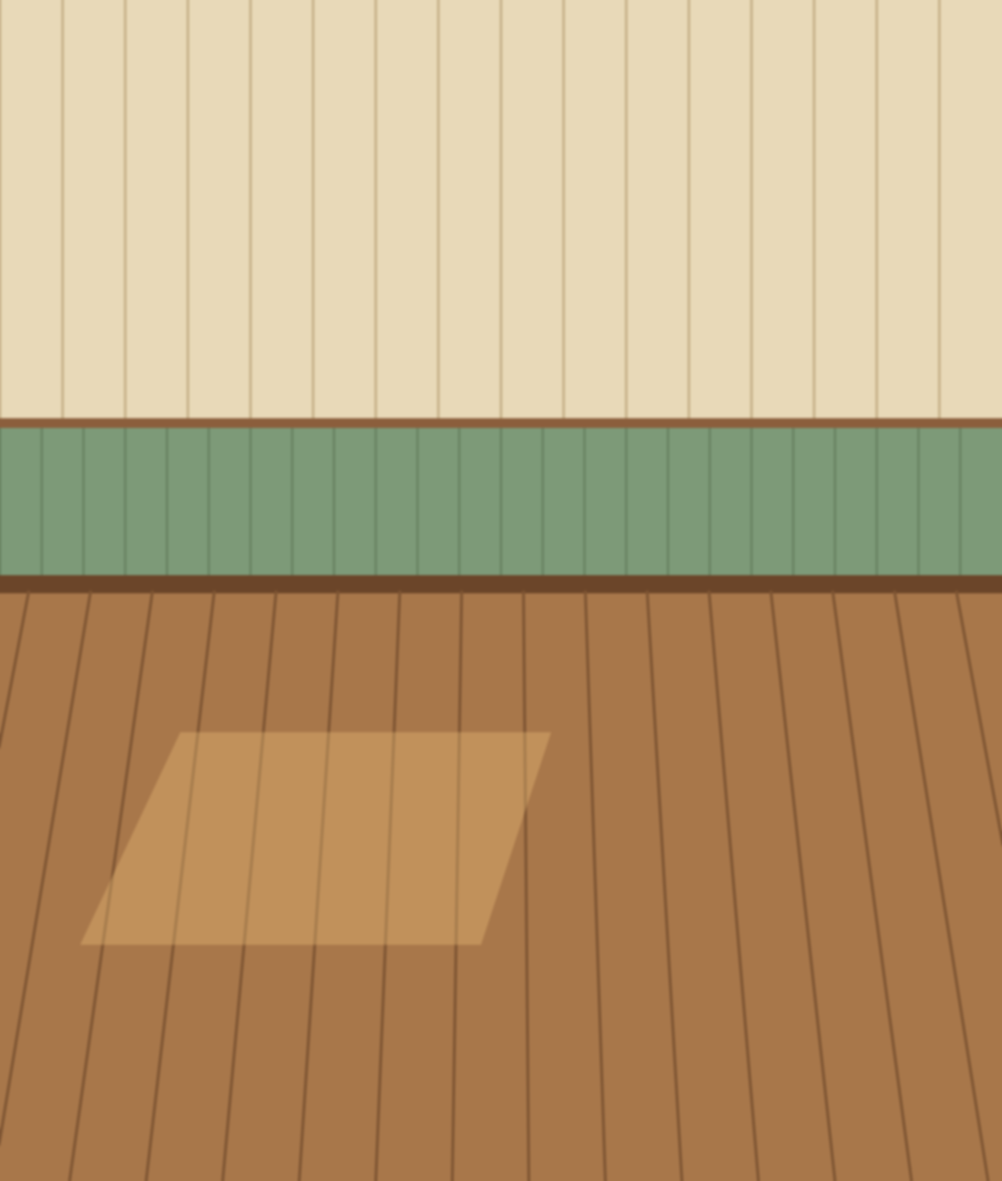
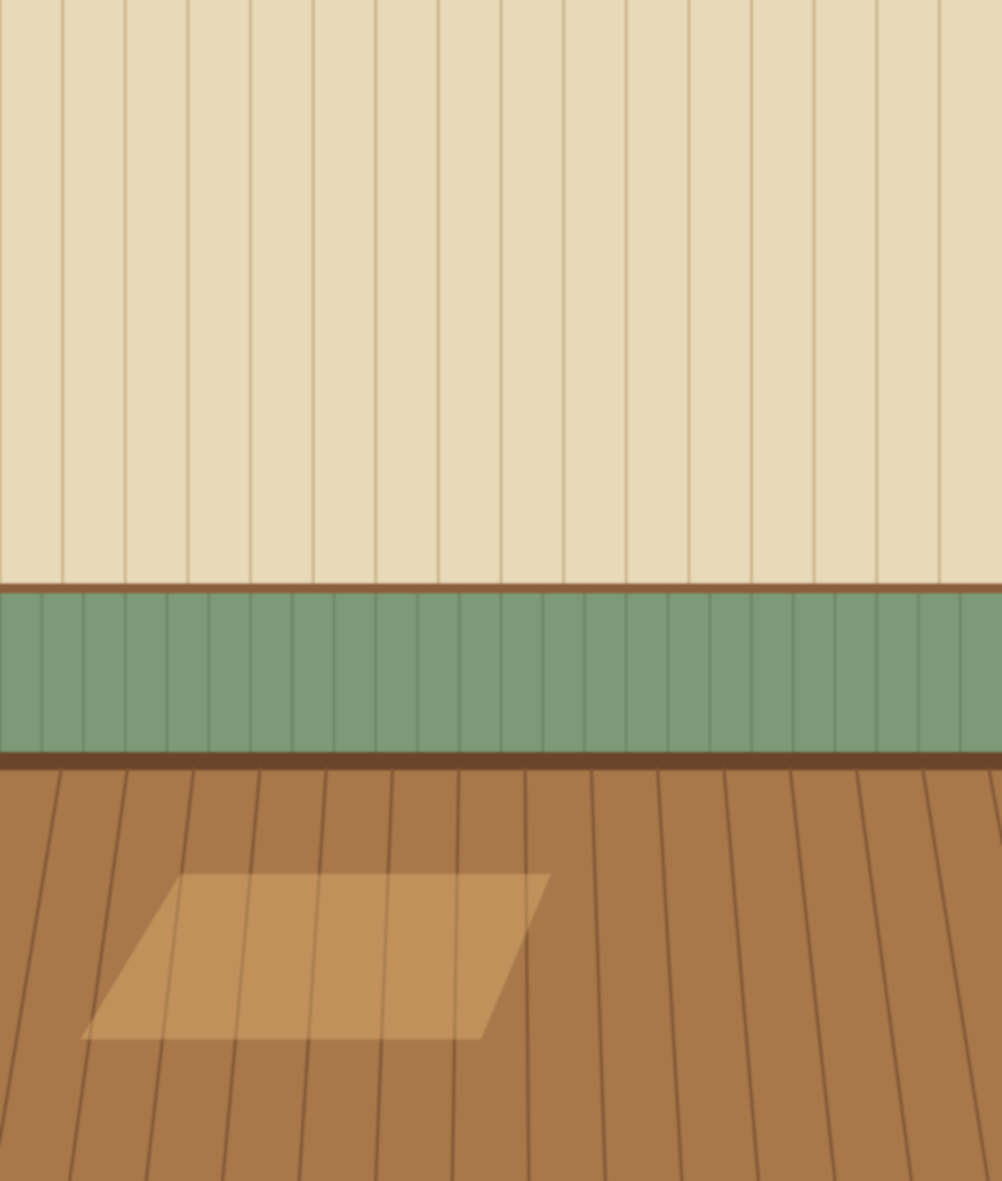
Perspective: baseboard at 65% so furniture stands against the wall with rear feet on it; back-to-front drawing, items on the workbench on top; paint room rearranged; guides, docs and spec updated

diff --git a/src/ui/BeforeAfter.ts b/src/ui/BeforeAfter.ts
@@ -5,7 +5,7 @@ import { addAsset } from '../assets';
 import { DEPTH, DESIGN_HEIGHT, DESIGN_WIDTH, PALETTE } from '../config';
 import { objectsIn, zonesIn, type Content, type RoomDef } from '../core/content';
 import { t } from '../i18n';
-import { rect } from '../layout';
+import { depthKey, rect, type Rect } from '../layout';
 import { Button } from './Button';
 import { COLORS, textStyle } from './style';
 import { drawShelf, drawZonePile, wallShelfRects } from './ZoneArt';
@@ -15,18 +15,26 @@ function drawRoom(scene: Phaser.Scene, content: Content, room: RoomDef, before: 
   const r = rect(room.layout, 'room');
   layer.add(addAsset(scene, room.image, r));
   for (const spot of wallShelfRects(content, room)) layer.add(drawShelf(scene, spot));
+  // Back to front, as on the main screen.
+  const things: { name: string; r: Rect; draw: (r: Rect) => Phaser.GameObjects.GameObject }[] = [];
   if (before) {
     for (const zone of zonesIn(content, room.id)) {
-      const z = rect(room.layout, `zone.${zone.id}`);
-      const box = scene.add.container(z.x + z.w / 2, z.y + z.h / 2).setSize(z.w, z.h);
-      drawZonePile(scene, box, content, zone, []);
-      layer.add(box);
+      things.push({
+        name: `zone.${zone.id}`,
+        r: rect(room.layout, `zone.${zone.id}`),
+        draw: (z) => {
+          const box = scene.add.container(z.x + z.w / 2, z.y + z.h / 2).setSize(z.w, z.h);
+          drawZonePile(scene, box, content, zone, []);
+          return box;
+        },
+      });
     }
   }
   for (const object of objectsIn(content, room.id)) {
     const key = before ? object.stateImages[0] : object.stateImages[object.stateImages.length - 1];
-    layer.add(addAsset(scene, key ?? '', rect(room.layout, `object.${object.id}`)));
+    things.push({ name: `object.${object.id}`, r: rect(room.layout, `object.${object.id}`), draw: (o) => addAsset(scene, key ?? '', o) });
   }
+  for (const thing of things.sort((p, q) => depthKey(p.name, p.r) - depthKey(q.name, q.r))) layer.add(thing.draw(thing.r));
   // Before: a dusty, dimmer veil over everything.
   if (before) layer.add(scene.add.rectangle(r.x, r.y, r.w, r.h, 0x5a4a3a, 0.3).setOrigin(0));
   return layer;

diff --git a/src/scenes/Workshop.ts b/src/scenes/Workshop.ts
@@ -11,7 +11,7 @@ import { checkRepair } from '../core/repair';
 import { currentTutorialStep } from '../core/tutorial';
 import { stepOf, type GameEvent, type GameState } from '../core/state';
 import { t } from '../i18n';
-import { rect, type Rect } from '../layout';
+import { depthKey, rect, type Rect } from '../layout';
 import type { Ads } from '../ads';
 import type { PlatformAdapter } from '../platform/adapter';
 import type { Store } from '../store';
@@ -85,12 +85,12 @@ export class WorkshopScene extends Phaser.Scene {
     const room = rect(this.section, 'room');
     addAsset(this, this.room.image, room);
     for (const spot of wallShelfRects(content, this.room)) drawShelf(this, spot);
-    for (const zone of zonesIn(content, this.room.id)) {
-      this.zones.set(zone.id, this.addHotspot(zone.image, rect(this.section, `zone.${zone.id}`), zone.nameKey, () => this.onZone(zone)));
-    }
-    for (const object of objectsIn(content, this.room.id)) {
-      this.objects.set(object.id, this.addHotspot(object.stateImages[0] ?? '', rect(this.section, `object.${object.id}`), object.nameKey, () => this.onObject(object)));
-    }
+    // Zones and objects are created back to front (byDepth), so nearer things cover farther ones.
+    const things = [
+      ...zonesIn(content, this.room.id).map((zone) => ({ name: `zone.${zone.id}`, r: rect(this.section, `zone.${zone.id}`), add: (r: Rect) => this.zones.set(zone.id, this.addHotspot(zone.image, r, zone.nameKey, () => this.onZone(zone))) })),
+      ...objectsIn(content, this.room.id).map((object) => ({ name: `object.${object.id}`, r: rect(this.section, `object.${object.id}`), add: (r: Rect) => this.objects.set(object.id, this.addHotspot(object.stateImages[0] ?? '', r, object.nameKey, () => this.onObject(object))) })),
+    ];
+    for (const thing of things.sort((a, b) => depthKey(a.name, a.r) - depthKey(b.name, b.r))) thing.add(thing.r);
     this.warmLight = this.add.rectangle(room.x, room.y, room.w, room.h, PALETTE.copper, 0.14).setOrigin(0).setVisible(false);
     ambientDust(this, room);
     // Badges go above every object and the warm light, so none of them is hidden by a neighbour.

diff --git a/src/layout.ts b/src/layout.ts
@@ -18,4 +18,12 @@ export function rect(section: string, name: string): Rect {
   return r;
 }
 
+// Depth order for things standing in a room: whatever reaches lower on the screen is closer to the viewer
+// and is drawn later, so a table in front of a rack covers the rack, not the other way round.
+export const byDepth = (a: Rect, b: Rect) => a.y + a.h - (b.y + b.h);
+
+// Things that stand on top of other furniture (the lamp and the box on the workbench) are drawn after it.
+export const ON_TOP = new Set(['object.lamp', 'object.fastener_box']);
+export const depthKey = (name: string, r: Rect) => (ON_TOP.has(name) ? 1e6 : 0) + r.y + r.h;
+
 export const center = (r: Rect) => ({ x: r.x + r.w / 2, y: r.y + r.h / 2 });

diff --git a/assets/ART_TODO.md b/assets/ART_TODO.md
@@ -93,14 +93,14 @@ cozy hand-painted 2D game illustration, soft painterly brushwork, warm golden af
 
 ## 1.4. Фоны комнат — `room_bg` и `room_paint_bg` — ✅ готово 13.10.2026
 
-Новые фоны подключены. Плинтус у них был на 60–61% высоты: я срезал сверху полосу потолка и немного боковых стен, чтобы он встал ровно посередине (оригиналы — в `assets/source/raw/`). Если будете перегенерировать — делайте сразу по подсказке композиции.
+Новые фоны подключены. Плинтус у них на 60–61% высоты; я подрезал снизу и с боков, чтобы он встал на 65% (оригиналы — в `assets/source/raw/`). Почему 65%, а не 50%: верстак, шкаф и столы стоят у стены, их **задние ножки** должны упираться в плинтус, а у таких вещей задние ножки оказываются примерно на 65% высоты комнаты.. Если будете перегенерировать — делайте сразу по подсказке композиции.
 
-**Что не так:** игра расставляет объекты по сетке: всё настенное (полки, окна, часы, антресоль, радио, стеллаж) стоит в **верхней половине** комнаты, всё напольное (верстак, шкаф, столы, кучи завала) — в **нижней**. Нынешние фоны нарисованы с глубокой перспективой: двускатная крыша, большие боковые стены, пол начинается ниже середины. Поэтому напольные вещи «залезают» на стены.
+**Что не так:** игра расставляет объекты по сетке: всё настенное (полки, окна, часы, антресоль, радио, стеллаж) висит на стене, а мебель стоит у стены задними ножками на плинтусе — **на 65% высоты** комнаты. Нынешние фоны нарисованы с глубокой перспективой: двускатная крыша, большие боковые стены, пол начинается ниже середины. Поэтому напольные вещи «залезают» на стены.
 
 Нужен фон как сцена театра или кукольный домик без передней стены:
-- задняя стена смотрит прямо на зрителя и занимает **ровно верхнюю половину** картинки;
-- плинтус — прямая горизонтальная линия **ровно посередине высоты**;
-- нижняя половина — пол с очень мягкой перспективой;
+- задняя стена смотрит прямо на зрителя и занимает **верхние две трети** картинки;
+- плинтус — прямая горизонтальная линия **на 65% высоты** сверху;
+- нижняя треть — пол с очень мягкой перспективой;
 - без боковых стен, потолка, балок и углов.
 
 **Как добиться в Leonardo:**
@@ -118,7 +118,7 @@ cozy hand-painted 2D game illustration, soft painterly brushwork, warm golden af
 - **Важно:** никаких предметов — окно, полка, часы, верстак и шкаф будут отдельными спрайтами поверх фона.
 
 ```
-cozy hand-painted 2D game illustration, soft painterly brushwork, warm golden afternoon light coming from the upper left, nostalgic calm mood, muted earthy palette of warm wood brown, cream, faded sage green, copper accents, dark metal and dust grey, clean readable shapes, gentle soft shadows, flat frontal view straight at the back wall of a small room, like a theatre stage or a dollhouse with the front wall removed, the back wall faces the viewer squarely and fills exactly the upper half of the picture, a straight horizontal wooden baseboard runs across the whole width exactly at the middle height of the picture, the lower half of the picture is a wooden plank floor seen from slightly above with very gentle perspective, the planks run towards the wall, no side walls, no ceiling, no roof beams, no corners, symmetrical composition, the interior of an old family workshop: the back wall is made of vertical cream-painted wooden planks with a faded sage green wainscot panel along its lower part above the baseboard, the floor is worn warm brown wooden planks with a few scuffs, warm golden sunlight patches on the floor and the wall, the room is completely empty with no furniture and no objects, plenty of empty wall space, vertical composition, full background
+cozy hand-painted 2D game illustration, soft painterly brushwork, warm golden afternoon light coming from the upper left, nostalgic calm mood, muted earthy palette of warm wood brown, cream, faded sage green, copper accents, dark metal and dust grey, clean readable shapes, gentle soft shadows, flat frontal view straight at the back wall of a small room, like a theatre stage or a dollhouse with the front wall removed, the back wall faces the viewer squarely and fills the upper two thirds of the picture, a straight horizontal wooden baseboard runs across the whole width at about two thirds of the height (65% from the top), the lower third of the picture is a wooden plank floor seen from slightly above with very gentle perspective, the planks run towards the wall, no side walls, no ceiling, no roof beams, no corners, symmetrical composition, the interior of an old family workshop: the back wall is made of vertical cream-painted wooden planks with a faded sage green wainscot panel along its lower part above the baseboard, the floor is worn warm brown wooden planks with a few scuffs, warm golden sunlight patches on the floor and the wall, the room is completely empty with no furniture and no objects, plenty of empty wall space, vertical composition, full background
 ```
 
 ### `room_paint_bg` — Фон малярной (пустая комната)
@@ -130,7 +130,7 @@ cozy hand-painted 2D game illustration, soft painterly brushwork, warm golden af
 - **Важно:** тот же ракурс и линия пола, что у мастерской: комнаты должны выглядеть соседними в одном доме. Стеллаж, окно, мольберт, стремянку и столы не рисовать.
 
 ```
-cozy hand-painted 2D game illustration, soft painterly brushwork, warm golden afternoon light coming from the upper left, nostalgic calm mood, muted earthy palette of warm wood brown, cream, faded sage green, copper accents, dark metal and dust grey, clean readable shapes, gentle soft shadows, flat frontal view straight at the back wall of a small room, like a theatre stage or a dollhouse with the front wall removed, the back wall faces the viewer squarely and fills exactly the upper half of the picture, a straight horizontal wooden baseboard runs across the whole width exactly at the middle height of the picture, the lower half of the picture is a wooden plank floor seen from slightly above with very gentle perspective, the planks run towards the wall, no side walls, no ceiling, no roof beams, no corners, symmetrical composition, the interior of an old family paint shop: the back wall is whitewashed plaster with old faint splashes of honey, sage green and warm red paint and a sage green wooden wainscot panel along its lower part above the baseboard, the floor is worn light wooden planks with old dried paint drips, warm golden sunlight patches on the floor and the wall, the room is completely empty with no furniture and no objects, plenty of empty wall space, vertical composition, full background
+cozy hand-painted 2D game illustration, soft painterly brushwork, warm golden afternoon light coming from the upper left, nostalgic calm mood, muted earthy palette of warm wood brown, cream, faded sage green, copper accents, dark metal and dust grey, clean readable shapes, gentle soft shadows, flat frontal view straight at the back wall of a small room, like a theatre stage or a dollhouse with the front wall removed, the back wall faces the viewer squarely and fills the upper two thirds of the picture, a straight horizontal wooden baseboard runs across the whole width at about two thirds of the height (65% from the top), the lower third of the picture is a wooden plank floor seen from slightly above with very gentle perspective, the planks run towards the wall, no side walls, no ceiling, no roof beams, no corners, symmetrical composition, the interior of an old family paint shop: the back wall is whitewashed plaster with old faint splashes of honey, sage green and warm red paint and a sage green wooden wainscot panel along its lower part above the baseboard, the floor is worn light wooden planks with old dried paint drips, warm golden sunlight patches on the floor and the wall, the room is completely empty with no furniture and no objects, plenty of empty wall space, vertical composition, full background
 ```
 
 ## 1.5. Окно — `obj_window_0`, `_1`, `_2` — ✅ готово 13.10.2026 (новая серия без мазков)
@@ -241,14 +241,10 @@ Clearly abandoned for many years: the tabletop boards are cracked, warped and st
 Same cozy hand-painted 2D style, original design, lighting, white background and framing. No redesign, no new or missing parts, no text or numbers.
 ```
 
-## 1.7. Малярная: поправить после партии 13.10.2026
+## 1.7. Стеллаж с красками: убрать стену
 
 **Что не так:**
 - **Стеллаж с красками** (`obj_paint_rack_0…3`) нарисован на стене с плинтусом и полом, а не на белом фоне — вырезать его автоматически чисто нельзя, поэтому в игре пока заглушка. Нужно убрать фон правкой каждой из четырёх картинок (текст один и тот же).
-- **Шкафчик для растворителей `_3`** — деревянный бежевый, а `_0`–`_2` — зелёный металлический: при последнем ремонте шкафчик «превратится» в другой.
-- **Шлифовальный верстак `_3`** — другой формы, чем `_0`–`_2`.
-
-Для двух последних проще всего сделать `_3` **правкой картинки `_2`** («почти готово» → «восстановлено»), тогда форма совпадёт.
 
 ### `obj_paint_rack_0` — Стеллаж с красками, шаг 0 из 3 — убрать стену
 
@@ -284,32 +280,6 @@ Edit this exact image: keep the paint rack with its cans exactly as it is — sa
 
 ```
 Edit this exact image: keep the paint rack with its cans exactly as it is — same shape, colors, details and camera angle. Remove the wall, the baseboard and the floor around and under it, and the shadow on the wall: replace everything around the paint rack with its cans with a plain flat pure white background. No redesign, no new or missing parts, no text or numbers.
-```
-
-### `obj_solvent_cabinet_3` — Шкафчик для растворителей, шаг 3 из 3 (восстановлено) — сделать из _2
-
-- **Как делать:** правка картинки `obj_solvent_cabinet_2`: откройте её карточку и вставьте текст.
-- **Отрицательный промпт:** не нужен — это правка готовой картинки
-
-```
-Edit this exact metal cabinet, preserving its silhouette, proportions, doors, handles, body and camera angle.
-
-Fully restored and cared for: the whole body is freshly and evenly painted sage green with no bare spots or scuffs, the doors are closed neatly, the handles are polished brass, and three plain glass bottles without labels stand in a row on top.
-
-Same cozy hand-painted 2D style, original design, lighting, white background and framing. No redesign, no text or numbers.
-```
-
-### `obj_sanding_bench_3` — Шлифовальный верстак, шаг 3 из 3 (восстановлено) — сделать из _2
-
-- **Как делать:** правка картинки `obj_sanding_bench_2`: откройте её карточку и вставьте текст.
-- **Отрицательный промпт:** не нужен — это правка готовой картинки
-
-```
-Edit this exact sanding bench, preserving its silhouette, proportions, top, legs, sanding block and camera angle.
-
-Fully restored and cared for: clean, warm, freshly finished wood on the top and the legs, no dust, no cracks; sandpaper sheets neatly stacked, and a freshly sanded wooden chair leg with a soft brush resting on the top.
-
-Same cozy hand-painted 2D style, original design, lighting, white background and framing. No redesign, no text or numbers.
 ```
 
 ---

diff --git a/assets/ARTIST_BRIEF.md b/assets/ARTIST_BRIEF.md
@@ -27,7 +27,7 @@
 | Пыль | `#C9C2B5` | заброшенные состояния |
 
 - **Заброшено** — пыльные малонасыщенные серо-коричневые тона, паутина, сломанные детали. **Восстановлено** — тёплые насыщенные цвета, чистые поверхности, «обжитость».
-- **Ракурс — «кукольный домик в разрезе», как сцена театра:** задняя стена комнаты смотрит прямо на зрителя и занимает верхнюю половину кадра, плинтус проходит ровно посередине высоты, ниже — пол в мягкой перспективе (камера чуть сверху, около 30°). Боковых стен, потолка и балок нет. Все объекты рисуются в этом же ракурсе, чтобы ставиться на фон без перекосов.
+- **Ракурс — «кукольный домик в разрезе», как сцена театра:** задняя стена комнаты смотрит прямо на зрителя и занимает верхние две трети кадра, плинтус проходит на 65% высоты, ниже — пол в мягкой перспективе (камера чуть сверху, около 30°). Боковых стен, потолка и балок нет. Все объекты рисуются в этом же ракурсе, чтобы ставиться на фон без перекосов.
 - **Читаемость:** объекты на экране телефона имеют ширину примерно 2–4 см. Силуэт и состояние объекта должны считываться с первого взгляда, мелкие детали — вторичны.
 - **Референсы настроения** прилагаются отдельно (временные картинки, сделанные нейросетью: карточки находок, логотип). Это ориентир по настроению и палитре, **не образец для копирования**.
 
@@ -42,7 +42,7 @@
 
 Главный экран — комната мастерской. Она собирается **из слоёв**:
 
-1. **Фон комнаты** — пустая комната: задняя стена (верхняя половина кадра) и пол (нижняя половина), плинтус ровно посередине. На фоне **не должно быть** предметов, которые игрок чинит: окна, полки, часов, шкафа, верстака, лампы, радио. Схема расстановки с подписями — `room_bg_layout.jpg`, картинка-подсказка композиции — `room_bg_guide.png` (прикладываем к ТЗ).
+1. **Фон комнаты** — пустая комната: задняя стена (верхние две трети кадра) и пол (нижняя треть), плинтус на 65% высоты. Мебель стоит у стены: задние ножки — на плинтусе. На фоне **не должно быть** предметов, которые игрок чинит: окна, полки, часов, шкафа, верстака, лампы, радио. Схема расстановки с подписями — `room_bg_layout.jpg`, картинка-подсказка композиции — `room_bg_guide.png` (прикладываем к ТЗ).
 2. **Объекты** — 8 отдельных спрайтов с прозрачным фоном, каждый в 2–4 состояниях. Игра ставит нужное состояние поверх фона.
 3. **Кучи завала** — игра собирает их сама из спрайтов предметов завала (раздел 5.5), а сцену разбора — из увеличенного фона комнаты. Отдельные рисунки куч и сцен — по желанию (5.3–5.4).
 
@@ -50,7 +50,7 @@
 
 **Порядок работы над комнатой:** сначала эскиз всей комнаты целиком, где все объекты в восстановленном виде стоят на своих местах и кучи завала лежат на своих. После утверждения эскиза комната разбирается на слои. Расстановку на экране мы потом подгоняем под ваш эскиз сами, в редакторе раскладки.
 
-Текущая схема расстановки (её можно менять, если композиция от этого выигрывает), координаты — внутри комнаты 720×848. Всё, что висит на стене, — в верхней половине; всё, что стоит на полу, — в нижней:
+Текущая схема расстановки (её можно менять, если композиция от этого выигрывает), координаты — внутри комнаты 720×848. Всё, что висит на стене, — выше плинтуса; мебель стоит у стены задними ножками на плинтусе, кучи завала и низкие вещи — на полу перед ней:
 
 - **У задней стены, вверху:** полка с банками (слева), окно (по центру), настенные часы (справа).
 - **Ниже на стене и полках:** антресоль (куча завала, слева), полки у окна (куча завала, по центру), радиоприёмник (справа).
@@ -65,7 +65,7 @@
 
 | Файл | Что | Размер | Формат |
 | --- | --- | --- | --- |
-| `room_bg` | Пустая комната мастерской: стена — верхняя половина, пол — нижняя, плинтус посередине (см. разделы 2 и 4) | 1440×1696 (≈ 5:6) | PNG или JPG |
+| `room_bg` | Пустая комната мастерской: стена — верхние две трети, пол — нижняя треть, плинтус на 65% высоты (см. разделы 2 и 4) | 1440×1696 (≈ 5:6) | PNG или JPG |
 
 ### 5.2. Объекты восстановления — 25 файлов
 

diff --git a/assets/PROMPTS.md b/assets/PROMPTS.md
@@ -27,7 +27,7 @@
 - **Важно:** никаких предметов — окно, полка, часы, верстак и шкаф будут отдельными спрайтами поверх фона.
 
 ```
-cozy hand-painted 2D game illustration, soft painterly brushwork, warm golden afternoon light coming from the upper left, nostalgic calm mood, muted earthy palette of warm wood brown, cream, faded sage green, copper accents, dark metal and dust grey, clean readable shapes, gentle soft shadows, flat frontal view straight at the back wall of a small room, like a theatre stage or a dollhouse with the front wall removed, the back wall faces the viewer squarely and fills exactly the upper half of the picture, a straight horizontal wooden baseboard runs across the whole width exactly at the middle height of the picture, the lower half of the picture is a wooden plank floor seen from slightly above with very gentle perspective, the planks run towards the wall, no side walls, no ceiling, no roof beams, no corners, symmetrical composition, the interior of an old family workshop: the back wall is made of vertical cream-painted wooden planks with a faded sage green wainscot panel along its lower part above the baseboard, the floor is worn warm brown wooden planks with a few scuffs, warm golden sunlight patches on the floor and the wall, the room is completely empty with no furniture and no objects, plenty of empty wall space, vertical composition, full background
+cozy hand-painted 2D game illustration, soft painterly brushwork, warm golden afternoon light coming from the upper left, nostalgic calm mood, muted earthy palette of warm wood brown, cream, faded sage green, copper accents, dark metal and dust grey, clean readable shapes, gentle soft shadows, flat frontal view straight at the back wall of a small room, like a theatre stage or a dollhouse with the front wall removed, the back wall faces the viewer squarely and fills the upper two thirds of the picture, a straight horizontal wooden baseboard runs across the whole width at about two thirds of the height (65% from the top), the lower third of the picture is a wooden plank floor seen from slightly above with very gentle perspective, the planks run towards the wall, no side walls, no ceiling, no roof beams, no corners, symmetrical composition, the interior of an old family workshop: the back wall is made of vertical cream-painted wooden planks with a faded sage green wainscot panel along its lower part above the baseboard, the floor is worn warm brown wooden planks with a few scuffs, warm golden sunlight patches on the floor and the wall, the room is completely empty with no furniture and no objects, plenty of empty wall space, vertical composition, full background
 ```
 
 ### `room_paint_bg` — Малярная: фон малярной (пустая комната)
@@ -41,7 +41,7 @@ cozy hand-painted 2D game illustration, soft painterly brushwork, warm golden af
 - **Важно:** тот же ракурс и линия пола, что у мастерской: комнаты должны выглядеть соседними в одном доме. Стеллаж, окно, мольберт, стремянку и столы не рисовать.
 
 ```
-cozy hand-painted 2D game illustration, soft painterly brushwork, warm golden afternoon light coming from the upper left, nostalgic calm mood, muted earthy palette of warm wood brown, cream, faded sage green, copper accents, dark metal and dust grey, clean readable shapes, gentle soft shadows, flat frontal view straight at the back wall of a small room, like a theatre stage or a dollhouse with the front wall removed, the back wall faces the viewer squarely and fills exactly the upper half of the picture, a straight horizontal wooden baseboard runs across the whole width exactly at the middle height of the picture, the lower half of the picture is a wooden plank floor seen from slightly above with very gentle perspective, the planks run towards the wall, no side walls, no ceiling, no roof beams, no corners, symmetrical composition, the interior of an old family paint shop: the back wall is whitewashed plaster with old faint splashes of honey, sage green and warm red paint and a sage green wooden wainscot panel along its lower part above the baseboard, the floor is worn light wooden planks with old dried paint drips, warm golden sunlight patches on the floor and the wall, the room is completely empty with no furniture and no objects, plenty of empty wall space, vertical composition, full background
+cozy hand-painted 2D game illustration, soft painterly brushwork, warm golden afternoon light coming from the upper left, nostalgic calm mood, muted earthy palette of warm wood brown, cream, faded sage green, copper accents, dark metal and dust grey, clean readable shapes, gentle soft shadows, flat frontal view straight at the back wall of a small room, like a theatre stage or a dollhouse with the front wall removed, the back wall faces the viewer squarely and fills the upper two thirds of the picture, a straight horizontal wooden baseboard runs across the whole width at about two thirds of the height (65% from the top), the lower third of the picture is a wooden plank floor seen from slightly above with very gentle perspective, the planks run towards the wall, no side walls, no ceiling, no roof beams, no corners, symmetrical composition, the interior of an old family paint shop: the back wall is whitewashed plaster with old faint splashes of honey, sage green and warm red paint and a sage green wooden wainscot panel along its lower part above the baseboard, the floor is worn light wooden planks with old dried paint drips, warm golden sunlight patches on the floor and the wall, the room is completely empty with no furniture and no objects, plenty of empty wall space, vertical composition, full background
 ```
 
 ## 2. Объекты восстановления

diff --git a/assets/ART_BRIEF.md b/assets/ART_BRIEF.md
@@ -91,7 +91,7 @@ Same cozy hand-painted 2D style, original design, lighting, white background and
 | --- | --- | --- | --- | --- |
 | `room_bg` | Пустой интерьер мастерской, на который сверху ставятся все объекты и завалы | 720×848 | 1440×1696 | ≈ 5:6 (генерируйте 4:5 и обрежьте) |
 
-**Композиция (важно, с версии 0.8):** игра ставит объекты по сетке — всё настенное в верхней половине комнаты, всё напольное в нижней. Поэтому задняя стена смотрит прямо на зрителя и занимает **ровно верхнюю половину**, плинтус — горизонтальная линия **посередине высоты**, ниже — пол с мягкой перспективой; без боковых стен, потолка и балок. Готовый промпт, картинка-подсказка композиции (`assets/source/guides/room_bg_guide.png`) и схема расстановки (`room_bg_layout.jpg`) — в `ART_TODO.md`, раздел 1.4.
+**Композиция (важно, с версии 0.8):** задняя стена смотрит прямо на зрителя и занимает **верхние две трети** кадра, плинтус — горизонтальная линия **на 65% высоты**, ниже — пол с мягкой перспективой. Мебель (верстак, шкаф, столы, стеллажи) стоит у стены: её **задние ножки упираются в плинтус**; без боковых стен, потолка и балок. Готовый промпт, картинка-подсказка композиции (`assets/source/guides/room_bg_guide.png`) и схема расстановки (`room_bg_layout.jpg`) — в `ART_TODO.md`, раздел 1.4.
 
 Важно: окно, шкаф, верстак и всё остальное — отдельные спрайты поверх фона. На фоне их рисовать не нужно, иначе при ремонте будет видно «два верстака».
 

diff --git a/NEXT_STEPS.md b/NEXT_STEPS.md
@@ -19,13 +19,11 @@
 
 ## 2. Графика — почти всё готово
 
-13.10.2026 подключено **86 из 90** нужных картинок. Осталось поправить (тексты правок — в `assets/ART_TODO.md`, раздел 1.7):
+13.10.2026 подключено **86 из 90** нужных картинок. Осталось поправить только стеллаж с красками (текст правки — в `assets/ART_TODO.md`, раздел 1.7). Шкафчик для растворителей и шлифовальный верстак оставлены как есть (13.10.2026). Плинтус на фонах теперь на 65% высоты: мебель стоит у стены задними ножками на плинтусе.
 
 | Что | Сколько | Как |
 | --- | --- | --- |
 | Стеллаж с красками `obj_paint_rack_0…3` | 4 | Нарисован на стене с плинтусом — правкой каждой картинки убрать стену и пол, оставить белый фон. Пока в игре заглушка |
-| Шкафчик для растворителей `_3` | 1 | Деревянный вместо зелёного металлического — сделать правкой картинки `_2` |
-| Шлифовальный верстак `_3` | 1 | Другой формы — сделать правкой картинки `_2` |
 
 Присылайте, как раньше: файлы по ключам, архивом.
 
